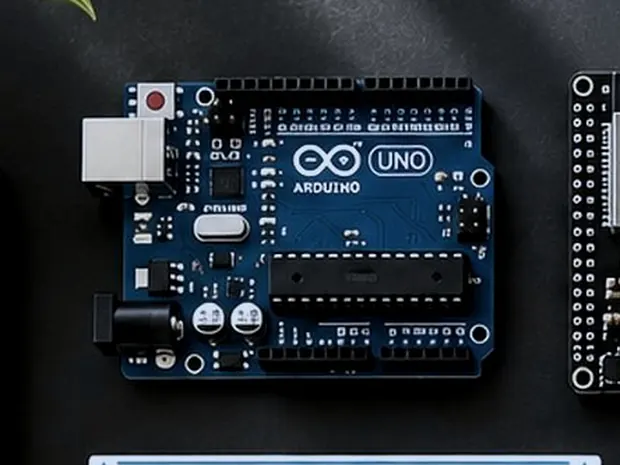
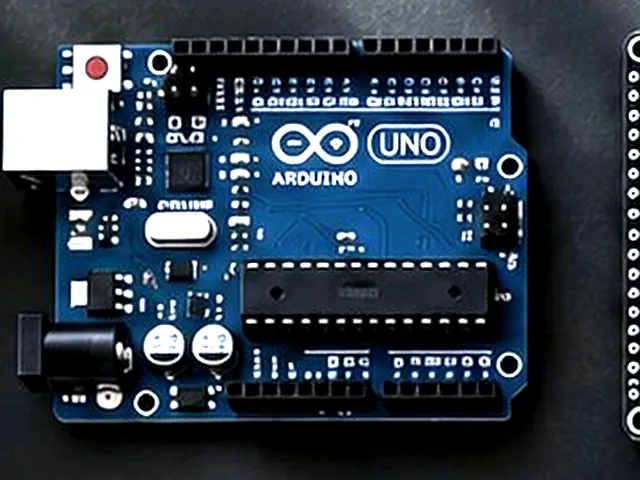
Re-crop the component cards tight and match their exposure
Two of the four read as empty boxes: c-ultrasonic was 83.6% near-black
and c-soil 83.0%, because the crops were loose and mostly bare desk on a
dark card background.

Tighter 4:3 boxes around each part, then every crop normalised to a
common mean brightness so the row reads evenly. Ultrasonic is now 39%
near-black rather than 84%.

diff --git a/index.html b/index.html
@@ -533,19 +533,19 @@ footer .f{display:flex;flex-wrap:wrap;gap:12px 32px;align-items:baseline;
     </div>
     <div class="kit-grid">
       <article class="kc">
-        <picture><source srcset="c-arduino.webp" type="image/webp"><img src="c-arduino.jpg" width="620" height="465" loading="lazy" decoding="async" alt="Arduino Uno"></picture>
+        <picture><source srcset="c-arduino.webp" type="image/webp"><img src="c-arduino.jpg" width="640" height="480" loading="lazy" decoding="async" alt="Arduino Uno"></picture>
         <h3>Arduino Uno</h3><p>The first board a student writes a program for. Session four: first program, first bug, first fix.</p>
       </article>
       <article class="kc">
-        <picture><source srcset="c-ultrasonic.webp" type="image/webp"><img src="c-ultrasonic.jpg" width="620" height="465" loading="lazy" decoding="async" alt="Ultrasonic sensor"></picture>
+        <picture><source srcset="c-ultrasonic.webp" type="image/webp"><img src="c-ultrasonic.jpg" width="640" height="480" loading="lazy" decoding="async" alt="Ultrasonic sensor"></picture>
         <h3>Ultrasonic sensor</h3><p>Measures distance without touching anything. This is what reads the school water tank.</p>
       </article>
       <article class="kc">
-        <picture><source srcset="c-soil.webp" type="image/webp"><img src="c-soil.jpg" width="620" height="465" loading="lazy" decoding="async" alt="Soil and rain sensors"></picture>
+        <picture><source srcset="c-soil.webp" type="image/webp"><img src="c-soil.jpg" width="640" height="480" loading="lazy" decoding="async" alt="Soil and rain sensors"></picture>
         <h3>Soil and rain sensors</h3><p>Report when the garden needs water, before the plants start showing it.</p>
       </article>
       <article class="kc">
-        <picture><source srcset="c-printed.webp" type="image/webp"><img src="c-printed.jpg" width="620" height="465" loading="lazy" decoding="async" alt="Printed parts"></picture>
+        <picture><source srcset="c-printed.webp" type="image/webp"><img src="c-printed.jpg" width="640" height="480" loading="lazy" decoding="async" alt="Printed parts"></picture>
         <h3>Printed parts</h3><p>Designed in session three, printed, and fitted to the build in session eight.</p>
       </article>
     </div>
